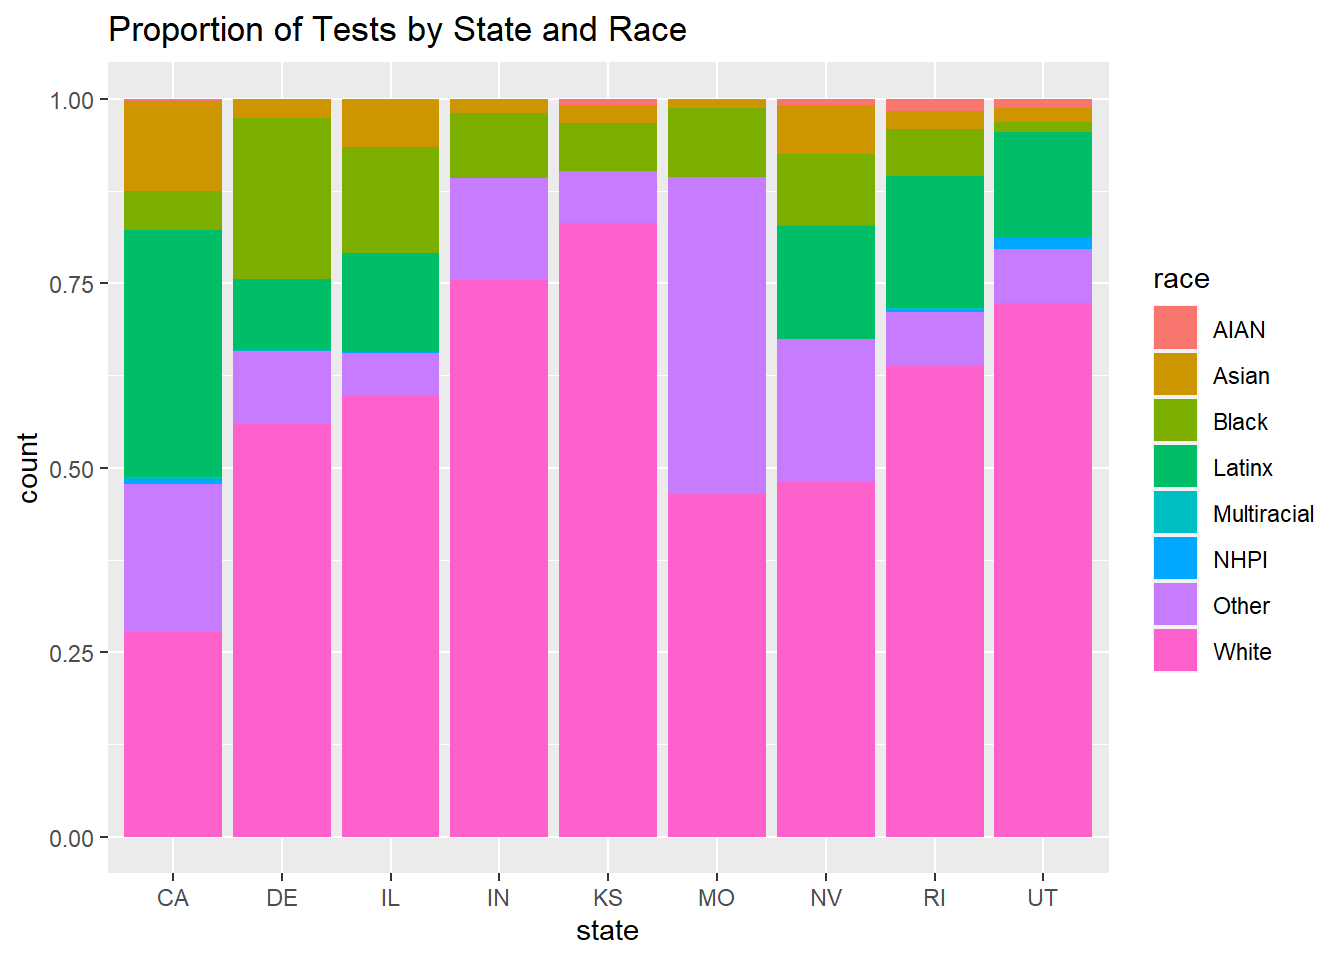
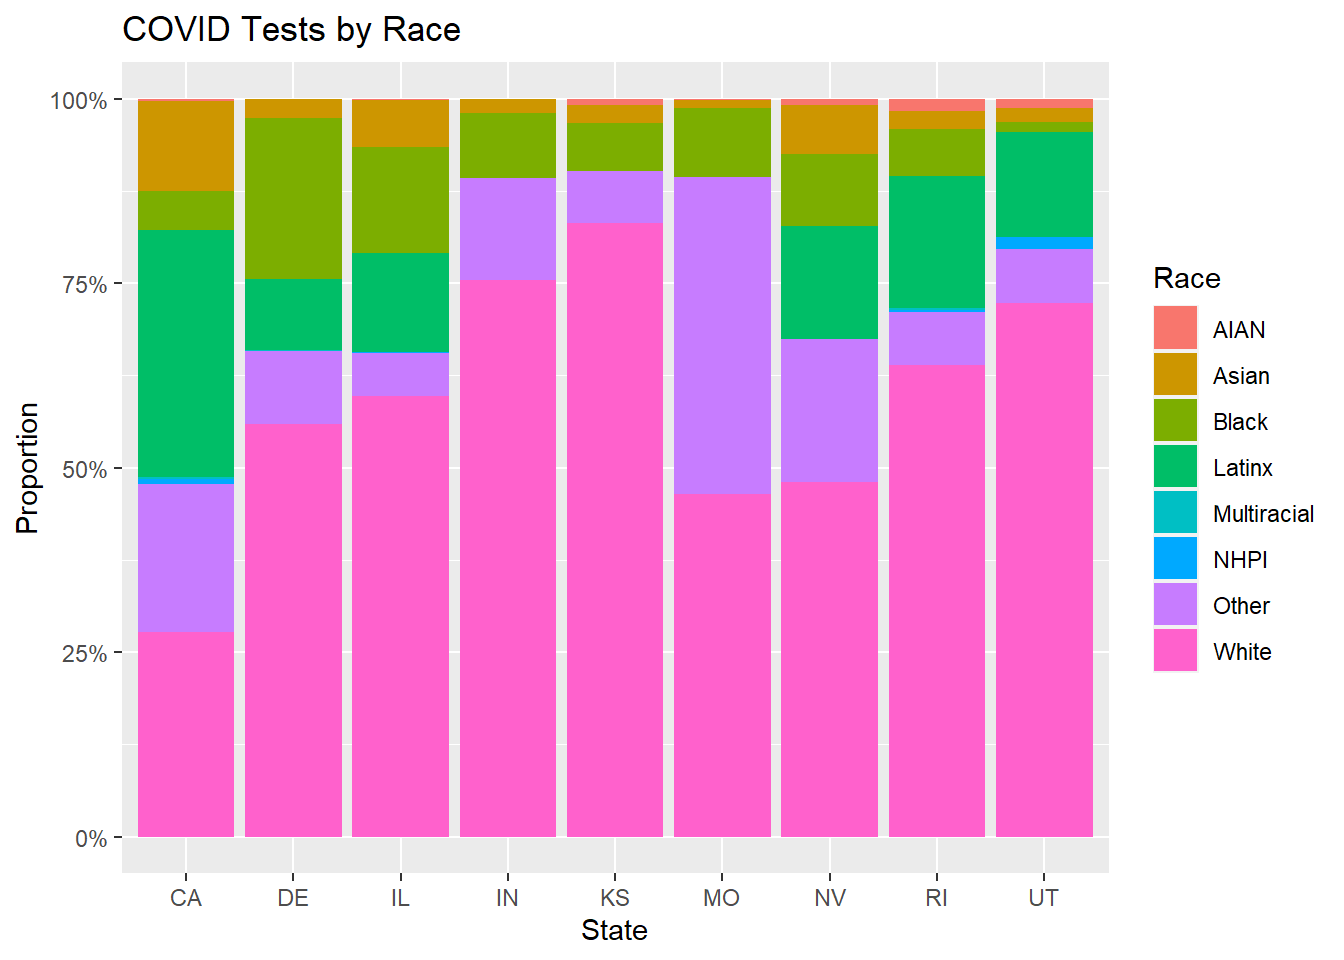
Edited answer to number 1

diff --git a/Week_02_Covid_Vis.html b/Week_02_Covid_Vis.html
@@ -129,11 +129,24 @@ pre > code.sourceCode > span > a:first-child::before { text-decoration: underlin
 <pre><code>[1] "covid_data_count" "covid_data_long"  "covid_data_orig"  "covid_data_race" 
 [5] "has_annotations" </code></pre>
 </div>
+<div class="sourceCode cell-code" id="cb5"><pre class="sourceCode r code-with-copy"><code class="sourceCode r"><span id="cb5-1"><a href="#cb5-1" aria-hidden="true" tabindex="-1"></a><span class="fu">library</span>(scales)</span></code><button title="Copy to Clipboard" class="code-copy-button"><i class="bi"></i></button></pre></div>
+<div class="cell-output cell-output-stderr">
+<pre><code>
+Attaching package: 'scales'
+
+The following object is masked from 'package:purrr':
+
+    discard
+
+The following object is masked from 'package:readr':
+
+    col_factor</code></pre>
+</div>
 </div>
 <p>I’ve include 4 different data sets. They all have the same data but have it represented in different ways. Try using the different data sets and see which ones are good for making which plots.</p>
 <div class="cell">
-<div class="sourceCode cell-code" id="cb5"><pre class="sourceCode r code-with-copy"><code class="sourceCode r"><span id="cb5-1"><a href="#cb5-1" aria-hidden="true" tabindex="-1"></a>covid_data_count <span class="sc">|&gt;</span> </span>
-<span id="cb5-2"><a href="#cb5-2" aria-hidden="true" tabindex="-1"></a>  <span class="fu">filter</span>(race<span class="sc">==</span> <span class="st">"Total"</span>) <span class="sc">|&gt;</span> <span class="fu">ggplot</span>(<span class="fu">aes</span>(<span class="at">x =</span> state, <span class="at">y =</span> Deaths)) <span class="sc">+</span> <span class="fu">geom_col</span>()</span></code><button title="Copy to Clipboard" class="code-copy-button"><i class="bi"></i></button></pre></div>
+<div class="sourceCode cell-code" id="cb7"><pre class="sourceCode r code-with-copy"><code class="sourceCode r"><span id="cb7-1"><a href="#cb7-1" aria-hidden="true" tabindex="-1"></a>covid_data_count <span class="sc">|&gt;</span> </span>
+<span id="cb7-2"><a href="#cb7-2" aria-hidden="true" tabindex="-1"></a>  <span class="fu">filter</span>(race<span class="sc">==</span> <span class="st">"Total"</span>) <span class="sc">|&gt;</span> <span class="fu">ggplot</span>(<span class="fu">aes</span>(<span class="at">x =</span> state, <span class="at">y =</span> Deaths)) <span class="sc">+</span> <span class="fu">geom_col</span>()</span></code><button title="Copy to Clipboard" class="code-copy-button"><i class="bi"></i></button></pre></div>
 <div class="cell-output cell-output-stderr">
 <pre><code>Warning: Removed 74 rows containing missing values (`position_stack()`).</code></pre>
 </div>
@@ -143,9 +156,9 @@ pre > code.sourceCode > span > a:first-child::before { text-decoration: underlin
 </div>
 <p>If you want to only look at a specific state, you can do it like this. For now, see what you can do just using <code>ggplot</code>.</p>
 <div class="cell">
-<div class="sourceCode cell-code" id="cb7"><pre class="sourceCode r code-with-copy"><code class="sourceCode r"><span id="cb7-1"><a href="#cb7-1" aria-hidden="true" tabindex="-1"></a>covid_data_count <span class="sc">|&gt;</span> </span>
-<span id="cb7-2"><a href="#cb7-2" aria-hidden="true" tabindex="-1"></a>  <span class="fu">filter</span>(state <span class="sc">==</span> <span class="st">"MA"</span>) <span class="sc">|&gt;</span> </span>
-<span id="cb7-3"><a href="#cb7-3" aria-hidden="true" tabindex="-1"></a>  <span class="fu">ggplot</span>(<span class="fu">aes</span>(<span class="at">x =</span> date, <span class="at">y =</span> Cases, <span class="at">color =</span> race)) <span class="sc">+</span> <span class="fu">geom_line</span>()</span></code><button title="Copy to Clipboard" class="code-copy-button"><i class="bi"></i></button></pre></div>
+<div class="sourceCode cell-code" id="cb9"><pre class="sourceCode r code-with-copy"><code class="sourceCode r"><span id="cb9-1"><a href="#cb9-1" aria-hidden="true" tabindex="-1"></a>covid_data_count <span class="sc">|&gt;</span> </span>
+<span id="cb9-2"><a href="#cb9-2" aria-hidden="true" tabindex="-1"></a>  <span class="fu">filter</span>(state <span class="sc">==</span> <span class="st">"MA"</span>) <span class="sc">|&gt;</span> </span>
+<span id="cb9-3"><a href="#cb9-3" aria-hidden="true" tabindex="-1"></a>  <span class="fu">ggplot</span>(<span class="fu">aes</span>(<span class="at">x =</span> date, <span class="at">y =</span> Cases, <span class="at">color =</span> race)) <span class="sc">+</span> <span class="fu">geom_line</span>()</span></code><button title="Copy to Clipboard" class="code-copy-button"><i class="bi"></i></button></pre></div>
 <div class="cell-output-display">
 <p><img src="Week_02_Covid_Vis_files/figure-html/unnamed-chunk-1-1.png" class="img-fluid" width="672"></p>
 </div>
@@ -153,29 +166,31 @@ pre > code.sourceCode > span > a:first-child::before { text-decoration: underlin
 <ol type="1">
 <li>Write code for a plot and describe what you observe?</li>
 </ol>
+<p>I made two plots: one showing the proportion of COVID tests by race in several states and one showing the proportion of the population by race in those states.</p>
 <div class="cell">
-<div class="sourceCode cell-code" id="cb8"><pre class="sourceCode r code-with-copy"><code class="sourceCode r"><span id="cb8-1"><a href="#cb8-1" aria-hidden="true" tabindex="-1"></a><span class="fu">ggplot</span>(covid_data_long, <span class="fu">aes</span>(<span class="at">x =</span> count, <span class="at">y =</span> race)) <span class="sc">+</span> <span class="fu">geom_col</span>(<span class="fu">aes</span>(<span class="at">fill =</span> count_type)) <span class="sc">+</span> <span class="fu">labs</span>(<span class="at">title =</span> <span class="st">"COVID Data by Race"</span>)</span></code><button title="Copy to Clipboard" class="code-copy-button"><i class="bi"></i></button></pre></div>
+<div class="sourceCode cell-code" id="cb10"><pre class="sourceCode r code-with-copy"><code class="sourceCode r"><span id="cb10-1"><a href="#cb10-1" aria-hidden="true" tabindex="-1"></a><span class="fu">ggplot</span>(covid_data_long, <span class="fu">aes</span>(<span class="at">x =</span> count, <span class="at">y =</span> race)) <span class="sc">+</span> <span class="fu">geom_col</span>(<span class="fu">aes</span>(<span class="at">fill =</span> count_type)) <span class="sc">+</span> <span class="fu">labs</span>(<span class="at">title =</span> <span class="st">"COVID Data by Race"</span>)</span></code><button title="Copy to Clipboard" class="code-copy-button"><i class="bi"></i></button></pre></div>
 <div class="cell-output-display">
 <p><img src="Week_02_Covid_Vis_files/figure-html/unnamed-chunk-2-1.png" class="img-fluid" width="672"></p>
 </div>
 </div>
 <div class="cell">
-<div class="sourceCode cell-code" id="cb9"><pre class="sourceCode r code-with-copy"><code class="sourceCode r"><span id="cb9-1"><a href="#cb9-1" aria-hidden="true" tabindex="-1"></a>covid_data_long <span class="sc">|&gt;</span> </span>
-<span id="cb9-2"><a href="#cb9-2" aria-hidden="true" tabindex="-1"></a>  <span class="fu">filter</span>(count_type <span class="sc">==</span> <span class="st">"Tests"</span> <span class="sc">&amp;</span> race <span class="sc">!=</span> <span class="st">"Total"</span>) <span class="sc">|&gt;</span> <span class="fu">ggplot</span>(<span class="fu">aes</span>(<span class="at">x =</span> state, <span class="at">y=</span> count)) <span class="sc">+</span> <span class="fu">geom_col</span>(<span class="fu">aes</span>(<span class="at">fill =</span> race), <span class="at">position =</span> <span class="st">"fill"</span>) <span class="sc">+</span> <span class="fu">labs</span>(<span class="at">title =</span> <span class="st">"Proportion of Tests by State and Race"</span>)</span></code><button title="Copy to Clipboard" class="code-copy-button"><i class="bi"></i></button></pre></div>
+<div class="sourceCode cell-code" id="cb11"><pre class="sourceCode r code-with-copy"><code class="sourceCode r"><span id="cb11-1"><a href="#cb11-1" aria-hidden="true" tabindex="-1"></a>covid_data_long <span class="sc">|&gt;</span> </span>
+<span id="cb11-2"><a href="#cb11-2" aria-hidden="true" tabindex="-1"></a>  <span class="fu">filter</span>(count_type <span class="sc">==</span> <span class="st">"Tests"</span> <span class="sc">&amp;</span> race <span class="sc">!=</span> <span class="st">"Total"</span>) <span class="sc">|&gt;</span> <span class="fu">ggplot</span>(<span class="fu">aes</span>(<span class="at">x =</span> state, <span class="at">y=</span> count)) <span class="sc">+</span> <span class="fu">geom_col</span>(<span class="fu">aes</span>(<span class="at">fill =</span> race), <span class="at">position =</span> <span class="st">"fill"</span>) <span class="sc">+</span> <span class="fu">labs</span>(<span class="at">title =</span> <span class="st">"COVID Tests by Race"</span>, <span class="at">fill =</span> <span class="st">"Race"</span>, <span class="at">y =</span> <span class="st">"Proportion"</span>, <span class="at">x =</span> <span class="st">"State"</span>) <span class="sc">+</span> <span class="fu">scale_y_continuous</span>(<span class="at">labels =</span> scales<span class="sc">::</span>percent)</span></code><button title="Copy to Clipboard" class="code-copy-button"><i class="bi"></i></button></pre></div>
 <div class="cell-output-display">
 <p><img src="Week_02_Covid_Vis_files/figure-html/unnamed-chunk-3-1.png" class="img-fluid" width="672"></p>
 </div>
 </div>
 <div class="cell">
-<div class="sourceCode cell-code" id="cb10"><pre class="sourceCode r code-with-copy"><code class="sourceCode r"><span id="cb10-1"><a href="#cb10-1" aria-hidden="true" tabindex="-1"></a>covid_data_long <span class="sc">|&gt;</span></span>
-<span id="cb10-2"><a href="#cb10-2" aria-hidden="true" tabindex="-1"></a>  <span class="fu">filter</span>(race <span class="sc">!=</span> <span class="st">"Total"</span> <span class="sc">&amp;</span> state <span class="sc">%in%</span> <span class="fu">c</span>(<span class="st">"CA"</span>, <span class="st">"DE"</span>, <span class="st">"IL"</span>, <span class="st">"KS"</span>, <span class="st">"MO"</span>, <span class="st">"NV"</span>, <span class="st">"RI"</span>, <span class="st">"UT"</span>)) <span class="sc">|&gt;</span> <span class="fu">ggplot</span>(<span class="fu">aes</span>(<span class="at">x =</span> state, <span class="at">y =</span> population)) <span class="sc">+</span> <span class="fu">geom_col</span>(<span class="fu">aes</span>(<span class="at">fill =</span> race), <span class="at">position =</span> <span class="st">"fill"</span>)</span></code><button title="Copy to Clipboard" class="code-copy-button"><i class="bi"></i></button></pre></div>
+<div class="sourceCode cell-code" id="cb12"><pre class="sourceCode r code-with-copy"><code class="sourceCode r"><span id="cb12-1"><a href="#cb12-1" aria-hidden="true" tabindex="-1"></a>covid_data_long <span class="sc">|&gt;</span></span>
+<span id="cb12-2"><a href="#cb12-2" aria-hidden="true" tabindex="-1"></a>  <span class="fu">filter</span>(race <span class="sc">!=</span> <span class="st">"Total"</span> <span class="sc">&amp;</span> state <span class="sc">%in%</span> <span class="fu">c</span>(<span class="st">"CA"</span>, <span class="st">"DE"</span>, <span class="st">"IL"</span>, <span class="st">"KS"</span>, <span class="st">"MO"</span>, <span class="st">"NV"</span>, <span class="st">"RI"</span>, <span class="st">"UT"</span>)) <span class="sc">|&gt;</span> </span>
+<span id="cb12-3"><a href="#cb12-3" aria-hidden="true" tabindex="-1"></a>  <span class="fu">ggplot</span>(<span class="fu">aes</span>(<span class="at">x =</span> state, <span class="at">y =</span> population)) <span class="sc">+</span> <span class="fu">geom_col</span>(<span class="fu">aes</span>(<span class="at">fill=</span> race),  <span class="at">position =</span> <span class="st">"fill"</span>) <span class="sc">+</span> <span class="fu">labs</span>(<span class="at">title =</span> <span class="st">"State Populations by Race"</span>, <span class="at">x =</span> <span class="st">"State"</span>, <span class="at">y =</span> <span class="st">"Proportion"</span>) <span class="sc">+</span> <span class="fu">scale_y_continuous</span>(<span class="at">labels =</span> scales<span class="sc">::</span>percent)</span></code><button title="Copy to Clipboard" class="code-copy-button"><i class="bi"></i></button></pre></div>
 <div class="cell-output-display">
 <p><img src="Week_02_Covid_Vis_files/figure-html/unnamed-chunk-4-1.png" class="img-fluid" width="672"></p>
 </div>
 </div>
 <ol start="2" type="1">
-<li>Are there any conclusions you can draw? Firstly, it’s interesting that we only have testing data for a handful of states.</li>
-<li>What were you not able to do due to not having the R knowledge?</li>
+<li>Are there any conclusions you can draw? Firstly, it’s interesting that we only have testing data for a handful of states. I wonder if most states did not collect testing data, or if our dataset just chose not to include it. I was surprised to see that, in most of the states we have data for, the proportion of tests for each race is relatively equal to the proportion of that race in that state’s population. ALthough, one discrepancy I noticed was that in Nevada, the Latinx population had disproportionally fewer tests. There is a note that the Latinx population counts may be inaccurate, so perhaps this is a demonstration of that. Also, it appears that AIAN, which compose a very small proportion of each state’s population, compose an even smaller proportion of each state’s COVID tests.</li>
+<li>What were you not able to do due to not having the R knowledge? I really, really wanted to combine the above two graphs so that the bars for each state were directly adjacent to each other. This would allow for easy comparison. I tried to add two geom_col’s, but I couldn’t get it to work. I’m wondering whether I need a different geom or maybe there’s an argument that I’m missing.</li>
 <li>What other data would be useful to better understand this data? I would love to have testing data for the rest of the states, to see if the patterns for this selection of states holds for those. Also, it would be interesting if we had data on whether or not the tests came back positive or negative. Perhaps some people have greater access to COVID tests, so they would be more likely to get tested even if they don’t have COVID.</li>
 </ol>
 
